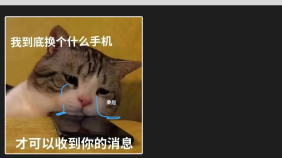
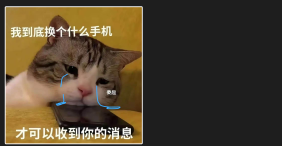
用户画像梗图去顶部白边重裁；头脑风暴便签/AI想法图裁白边内容放大；设计页布局优化：去虚线框、统一图高、米黄底色延续消除留白

Changed region(s): [[0.0, 0.0, 1.0, 0.7945], [0.0, 0.8493, 0.5106, 1.0], [0.4823, 0.7671, 0.5106, 0.7945]]

diff --git a/index.html b/index.html
@@ -158,16 +158,16 @@ details .dbody{padding:0 16px 16px;font-size:.78rem;color:#4A5063}
 .povcap{font-size:.74rem;color:var(--mut);margin-top:12px;line-height:1.7}
 .povcap b{color:var(--ink);display:block;margin-bottom:2px;font-size:.8rem}
 .sk2{display:grid;grid-template-columns:1fr 1fr;gap:16px;margin-bottom:16px}
-.sk2 figure{margin:0;background:#fff;border:1px solid var(--line);border-radius:16px;padding:16px 16px 14px;box-shadow:0 10px 28px rgba(21,23,28,.06);display:flex;flex-direction:column}
-.sk2 img{width:100%;height:400px;object-fit:contain;border-radius:10px;background:#fff;border:1px dashed var(--line)}
+.sk2 figure{margin:0;background:#fff;border:1px solid var(--line);border-radius:16px;padding:14px 14px 12px;box-shadow:0 10px 28px rgba(21,23,28,.06);display:flex;flex-direction:column}
+.sk2 img{width:100%;height:380px;object-fit:contain;border-radius:10px;background:#fff;border:1px solid var(--line)}
 .sk2 figcaption{font-size:.72rem;color:var(--mut);margin-top:12px;line-height:1.7}
 .sk2 figcaption b{display:block;color:var(--ink);font-size:.78rem;margin-bottom:2px}
-.vis2{display:grid;grid-template-columns:300px 1fr;gap:16px}
-.vis2 figure{margin:0;background:#fff;border:1px solid var(--line);border-radius:16px;padding:16px 16px 14px;box-shadow:0 10px 28px rgba(21,23,28,.06);display:flex;flex-direction:column}
-.vis2 img{width:100%;flex:1;min-height:0;object-fit:contain;border-radius:10px;background:#fff}
+.vis2{display:grid;grid-template-columns:340px 1fr;gap:16px}
+.vis2 figure{margin:0;background:#fff;border:1px solid var(--line);border-radius:16px;padding:14px 14px 12px;box-shadow:0 10px 28px rgba(21,23,28,.06);display:flex;flex-direction:column}
+.vis2 img{width:100%;height:300px;object-fit:contain;border-radius:10px;background:#F7DAB8}
 .vis2 figcaption{font-size:.72rem;color:var(--mut);margin-top:12px}
 .vis2 figcaption b{display:block;color:var(--ink);font-size:.78rem;margin-bottom:2px}
-@media(max-width:860px){.sk2,.vis2{grid-template-columns:1fr}.pov3{grid-template-columns:1fr}.vis2 img{height:220px}}
+@media(max-width:860px){.sk2,.vis2{grid-template-columns:1fr}.pov3{grid-template-columns:1fr}.vis2 img{height:220px}.sk2 img{height:300px}}
 .pov{background:#FFF3B8;border-radius:12px;padding:14px;font-size:.72rem;line-height:1.65;color:#5C4A1E;box-shadow:2px 3px 0 rgba(21,23,28,.1)}
 .pov b{display:block;font-size:.76rem;margin-bottom:5px}
 .pov.hmw{background:#FFE3EE;color:#7E3A5C}
